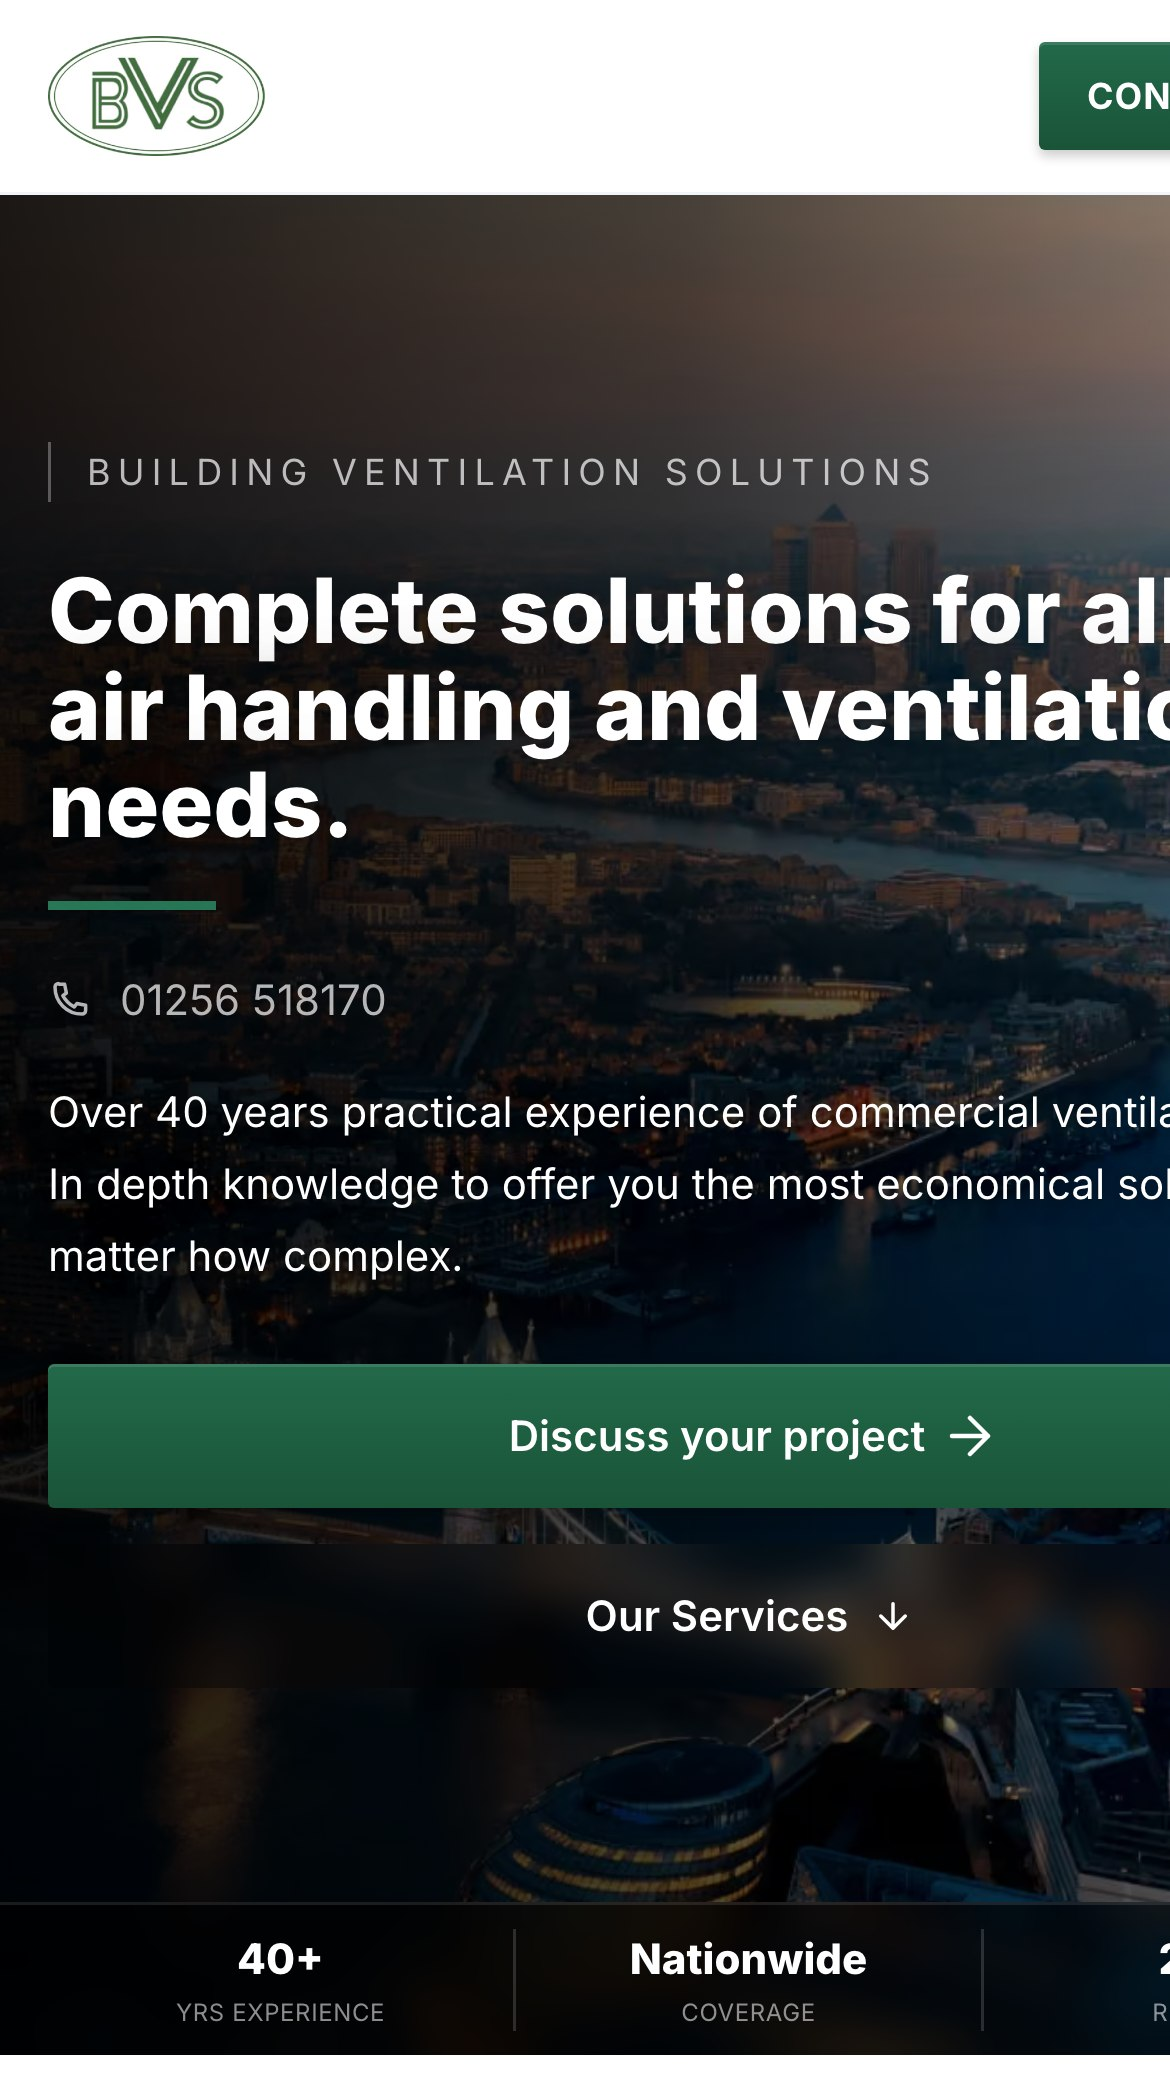
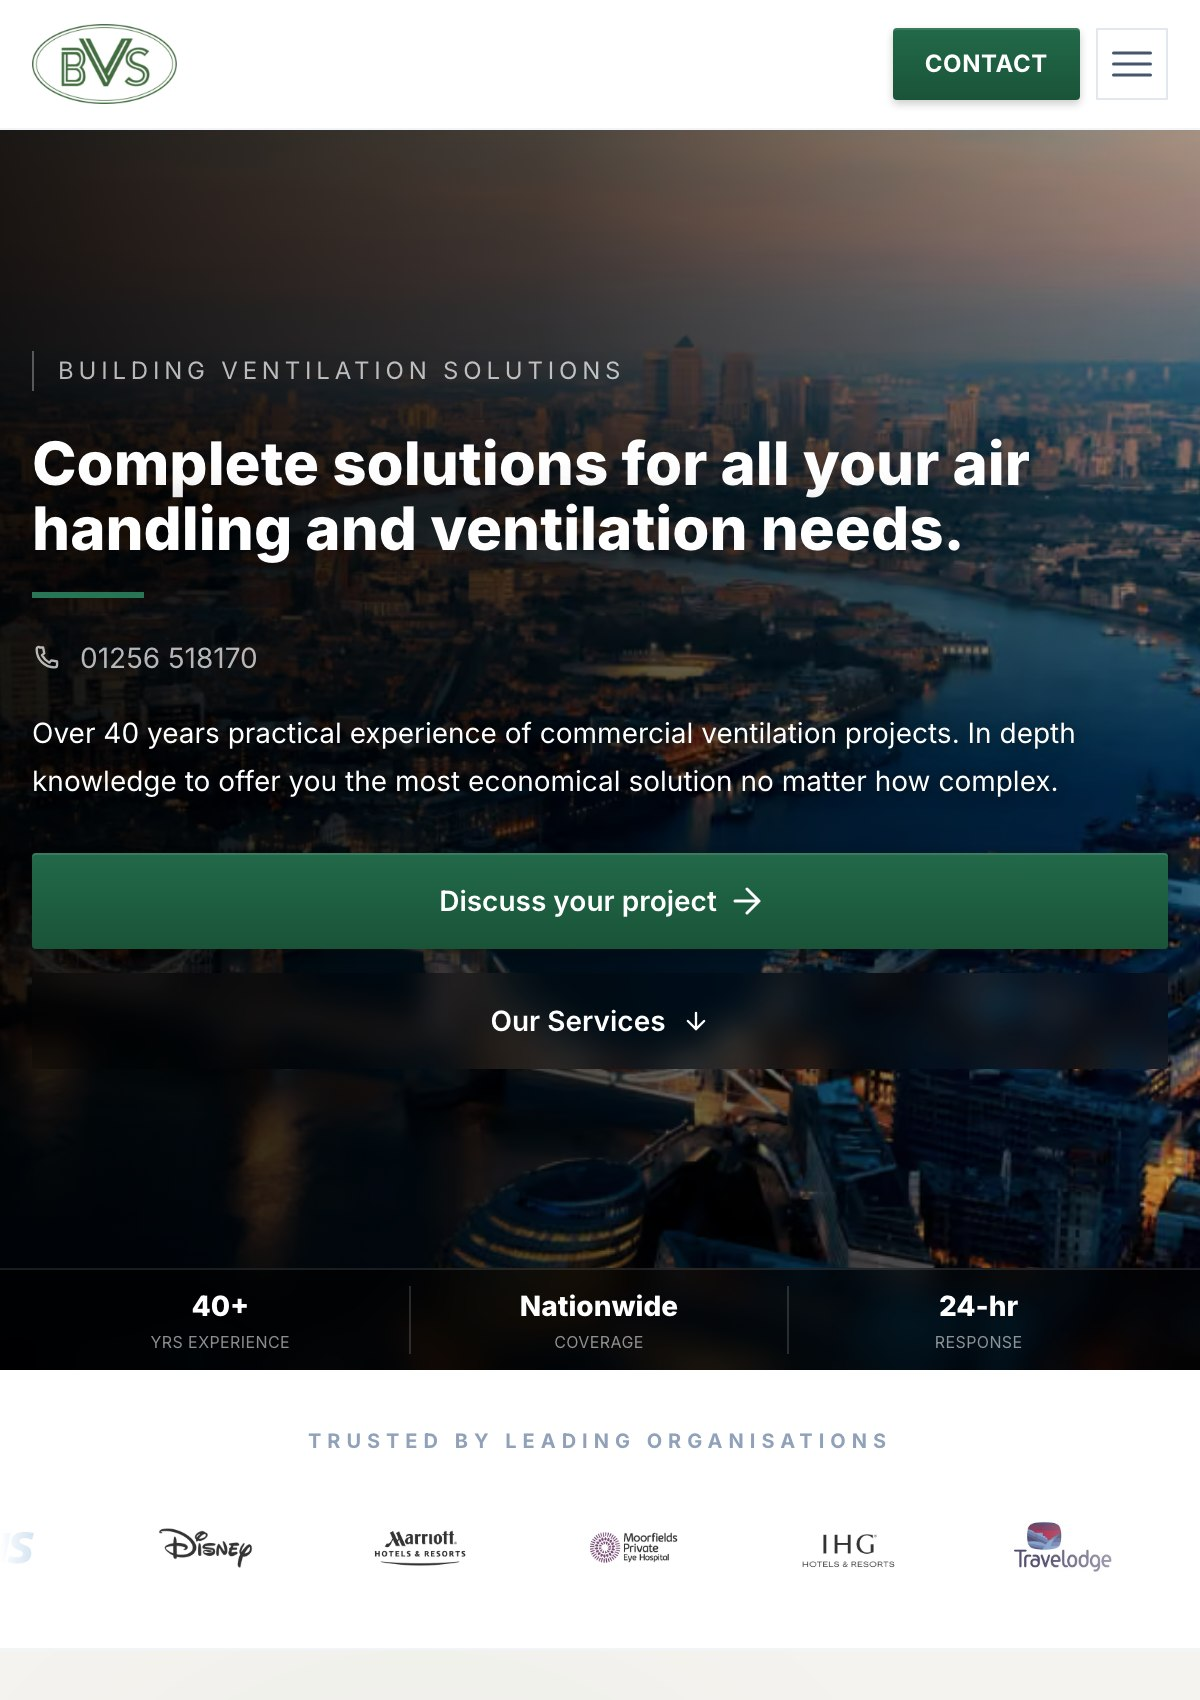
Fix cropped project screenshots: correct aspect ratios, smaller BVS mobile panel
- SecondaryWork cards (GTC, Axiom) were forced into a 4:3 frame but
  their source images are natively 8:5, so object-fit:cover cropped
  both edges symmetrically, cutting off on-image text/logos. Matched
  the aspect prop to the real image ratio instead.
- BVS mobile screenshot: the previous capture reproduced a genuine
  bug on bvs-ltd.co.uk where hero/stats text overflows horizontally
  between ~375-480px viewport widths (confirmed with a proper iPhone
  user-agent too, so it's the live site, not a capture artifact).
  Recaptured at 600px, where the site's layout is clean, and let the
  frame's own aspect-ratio crop it down instead of showing broken text.
- Shrank the BVS mobile mockup panel from 180px to 140px.

diff --git a/components/SecondaryWork.tsx b/components/SecondaryWork.tsx
@@ -40,7 +40,7 @@ export default function SecondaryWork() {
           {items.map((item) => {
             const inner = (
               <>
-                <ClientWork media={{ src: item.media.src }} alt={item.name} caption={item.media.caption} aspect="4 / 3" />
+                <ClientWork media={{ src: item.media.src }} alt={item.name} caption={item.media.caption} aspect="8 / 5" />
                 <p className="text-xs text-tertiary mt-4">{item.tag}</p>
                 <p className="text-base font-semibold text-ink mt-1 group-hover:text-terracotta transition-colors">{item.name}</p>
                 <p className="text-sm text-secondary mt-1">{item.note}</p>

diff --git a/components/FeaturedProject.tsx b/components/FeaturedProject.tsx
@@ -54,7 +54,7 @@ export default function FeaturedProject({
         </ScrollReveal>
 
         <ScrollReveal delay={80} className="mt-10 md:mt-12">
-          <div className="grid grid-cols-1 md:grid-cols-[1fr_180px] gap-4 items-end">
+          <div className="grid grid-cols-1 md:grid-cols-[1fr_140px] gap-4 items-end">
             <ClientWork media={media} alt={`${client} interface`} caption={media.caption} aspect="2 / 1" />
             {secondaryMedia && (
               <ClientWork
